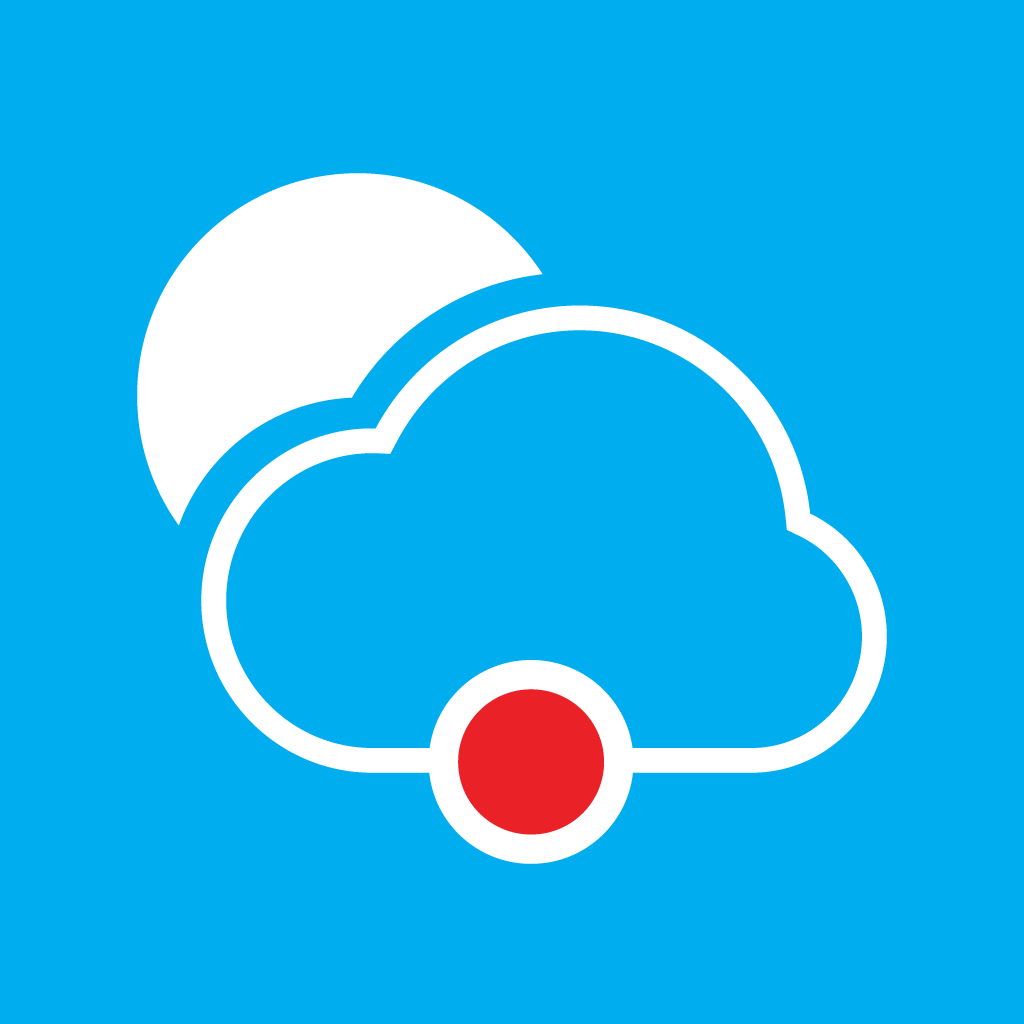
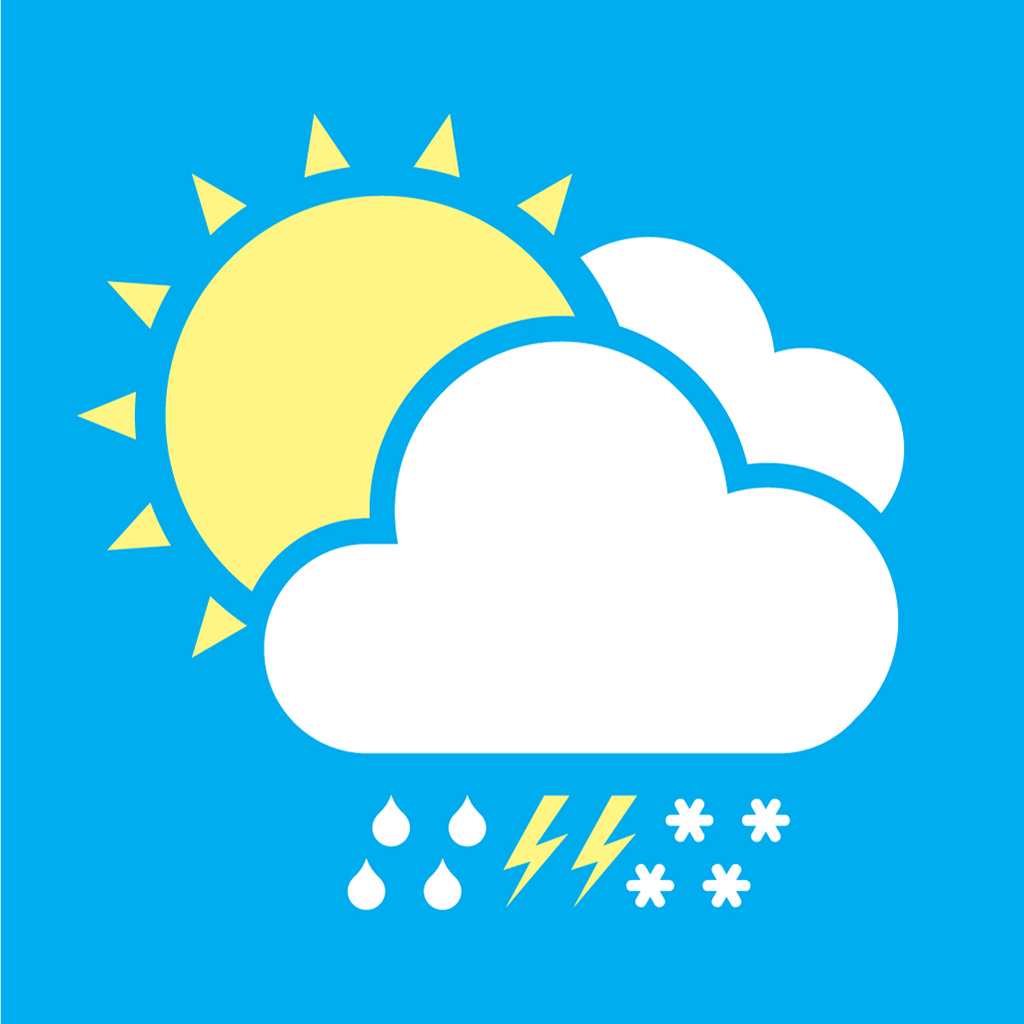
release 0.9.59
new app-store-app-icon.png
update ionic-timepicker
update release-ios-nonpaid

diff --git a/client/gulpfile.js b/client/gulpfile.js
@@ -131,7 +131,6 @@ gulp.task('release-android-nonpaid', shell.task([
 ]));
 
 gulp.task('release-ios-nonpaid', shell.task([
-  'cp config-androidsdk19.xml config.xml',
   'ionic state reset',
   'gulp rmplugins',
   'cp -a ../ios platforms/',
@@ -139,13 +138,13 @@ gulp.task('release-ios-nonpaid', shell.task([
   'cordova plugin rm cordova-plugin-console',
   'cordova plugin add cordova-fabric-plugin --variable FABRIC_API_KEY="1111" --variable FABRIC_API_SECRET="111"',
   'cordova plugin add cordova-plugin-app-preferences',
+  'cordova plugin add cordova-plugin-inapppurchase',
+  'cordova plugin add phonegap-plugin-push@1.8.4 --variable SENDER_ID="111"',
   'npm install',
   'cd node_modules/cordova-uglify/;npm install',
   'bower install',
   'gulp sass',
-
   'cp ads.ios.tw.client.config.js www/tw.client.config.js',
-  'cordova plugin add phonegap-plugin-push@1.8.4 --variable SENDER_ID="111"',
   'ionic build ios --release'
   //'xcodebuild -project TodayWeather.xcodeproj -scheme TodayWeather -configuration Release clean archive'
   //'xcodebuild -exportArchive -archivePath ~/Library/Developer/Xcode/Archives/2016-10-27/TodayWeather\ 2016.\ 10.\ 27.\ 13.48.xcarchive -exportPath TodayWeather.ipa''
